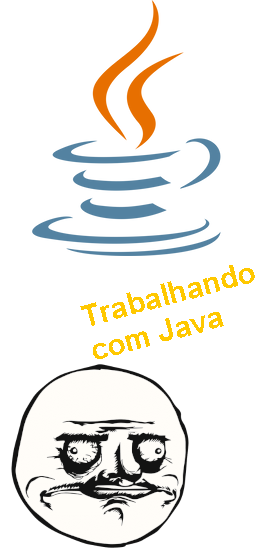
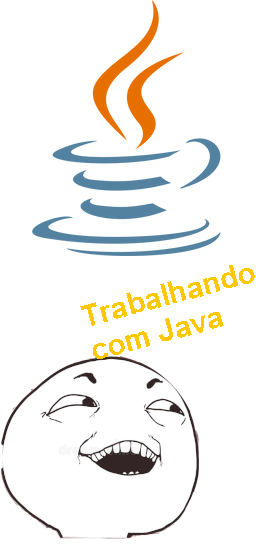
fixed stickers

Changed region(s): [[0.0, 0.6421, 0.7812, 1.0]]

diff --git a/codigo-refatorado/AluraStickers/src/App.java b/codigo-refatorado/AluraStickers/src/App.java
@@ -69,15 +69,16 @@ public class App {
         }
         */
         
-        for(int i = 0; i < 3; i++){
+        for(int i = 0; i < 4; i++){
 
             Conteudo conteudo = conteudos.get(i);
 
             String estado = "";
             int rank = Integer.parseInt(conteudo.getRanking());
-
-            if(rank == 9){
+            System.out.println(rank);
+            if(rank == 1){
                 System.out.println("\u001B[33m \u001b[1m" + " * * * * * ");
+                System.out.println("Foi aprovado!!!!");
                 estado = "aprovado";
             }else{
                 System.out.println("\u001B[33m \u001b[1m" + " * * * ");

diff --git a/codigo-refatorado/AluraStickers/src/ExtratorConteudoIMDB.java b/codigo-refatorado/AluraStickers/src/ExtratorConteudoIMDB.java
@@ -11,11 +11,11 @@ public class ExtratorConteudoIMDB implements ExtratorConteudo{
     
     // popular a lista
     for (Map<String, String> atributos : listaAtributos) {
-      System.out.println(atributos.get("title"));
+      
       String titulo = atributos.get("title");
       String urlImagem = atributos.get("image")
       .replaceAll("(@+)(.*).jpg$", "$l.jpg");
-      System.out.println(atributos.get("ranking"));
+      
       String ranking = atributos.get("ranking");
       
       

diff --git a/codigo-refatorado/AluraStickers/src/GeradorFigurinhas.java b/codigo-refatorado/AluraStickers/src/GeradorFigurinhas.java
@@ -67,7 +67,7 @@ public class GeradorFigurinhas {
       System.out.println(estado);
       if(estado.equals("aprovado")){
         str = "com " + title;
-        copiaImagem.drawImage(aprovado,0 - 500, altura - 100, null);
+        copiaImagem.drawImage(aprovado, 0 , altura + 100, null);
       }else if(estado.equals("reprovado")){
         str = "com " + title;
         copiaImagem.drawImage(reprovado, 0, altura + 100, null);

diff --git a/codigo-refatorado/AluraStickers/src/JsonParser.java b/codigo-refatorado/AluraStickers/src/JsonParser.java
@@ -15,7 +15,6 @@ public class JsonParser {
     if(!matcher.find()){
       throw new IllegalArgumentException("Não encontrou o item.");
     }
-    System.out.println(json);
     String[] items = matcher.group(1).split("\\},\\{");
 
     List<Map<String, String>> dados = new ArrayList<>();
